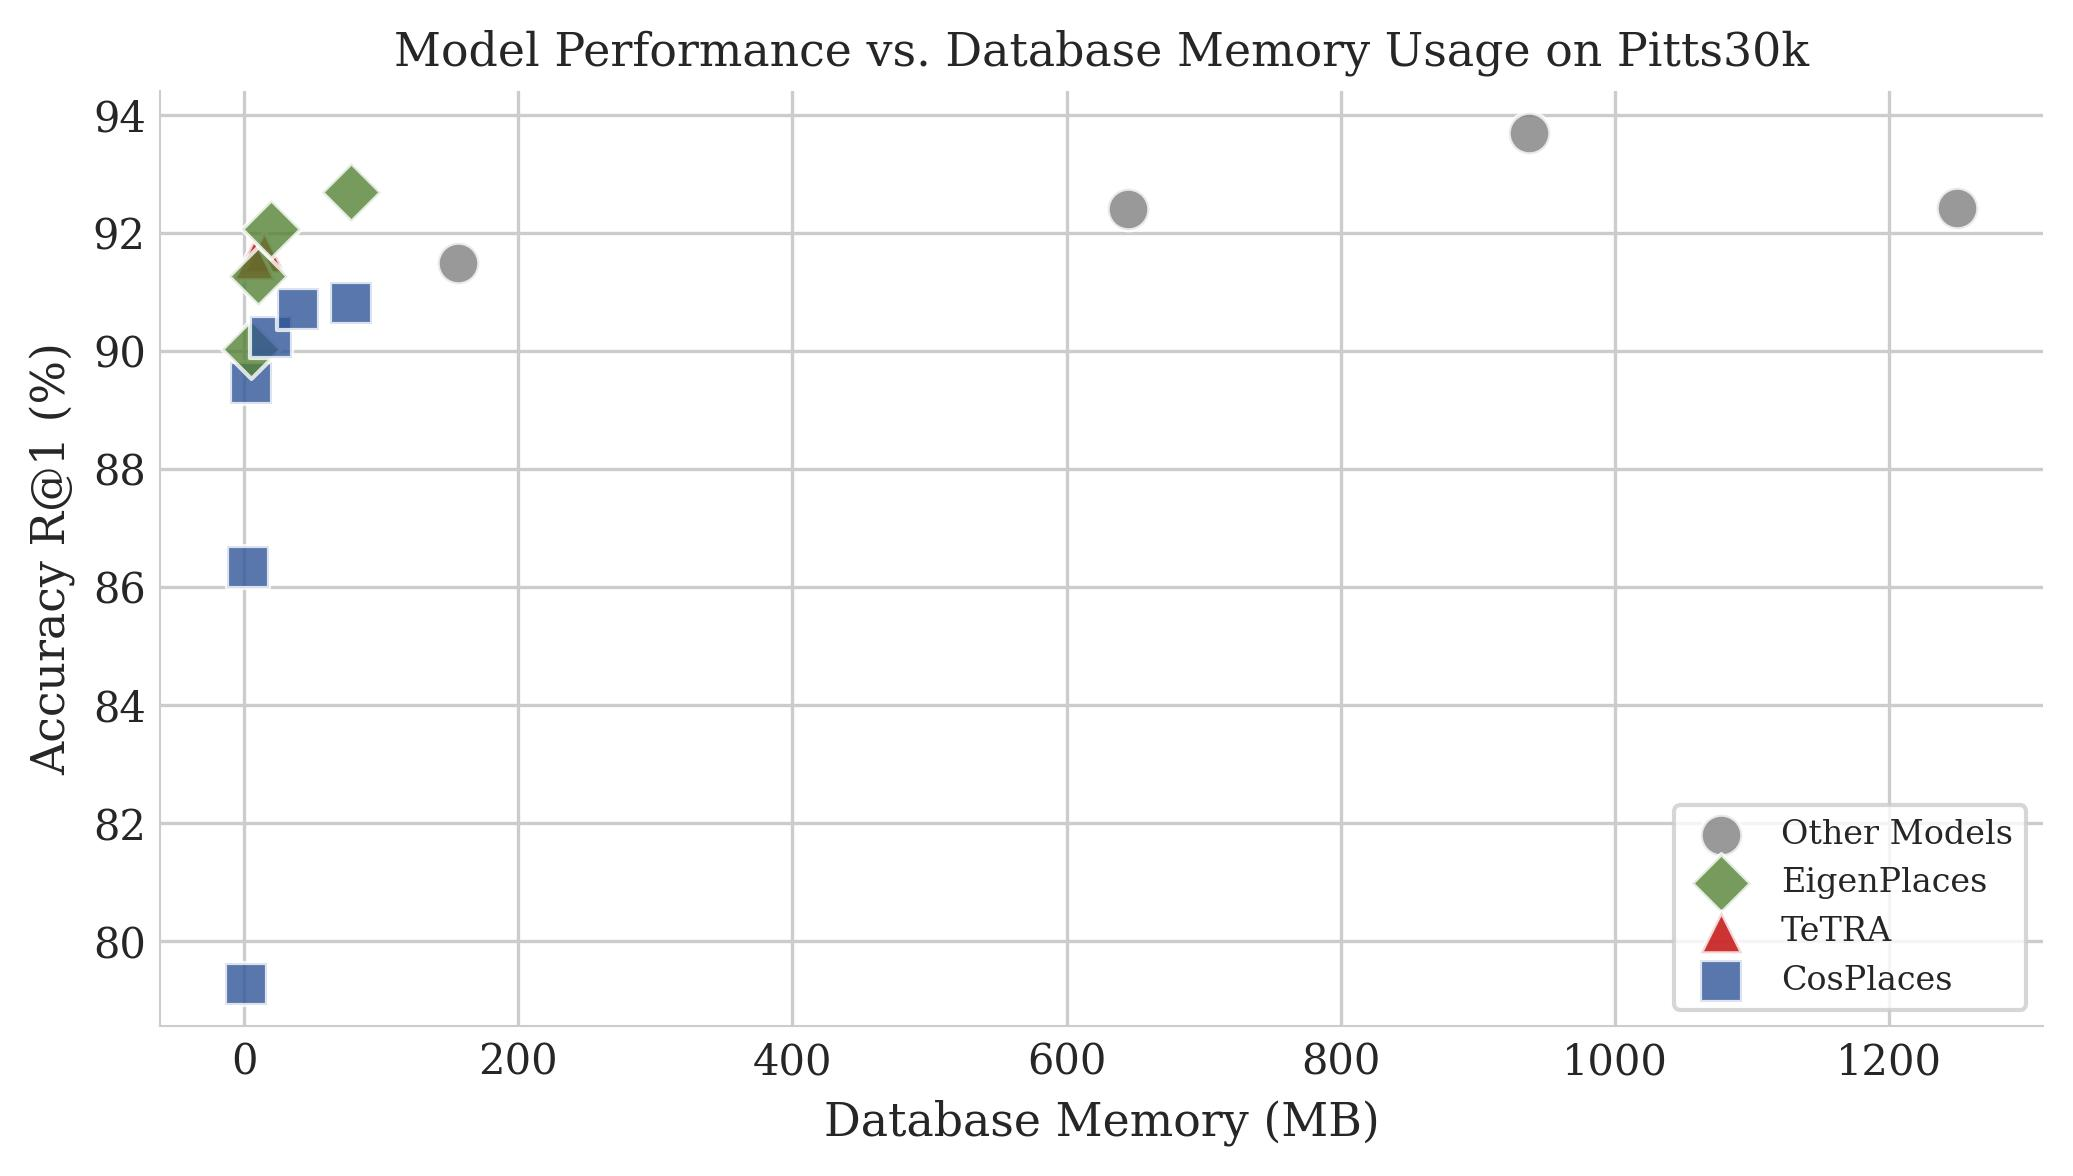
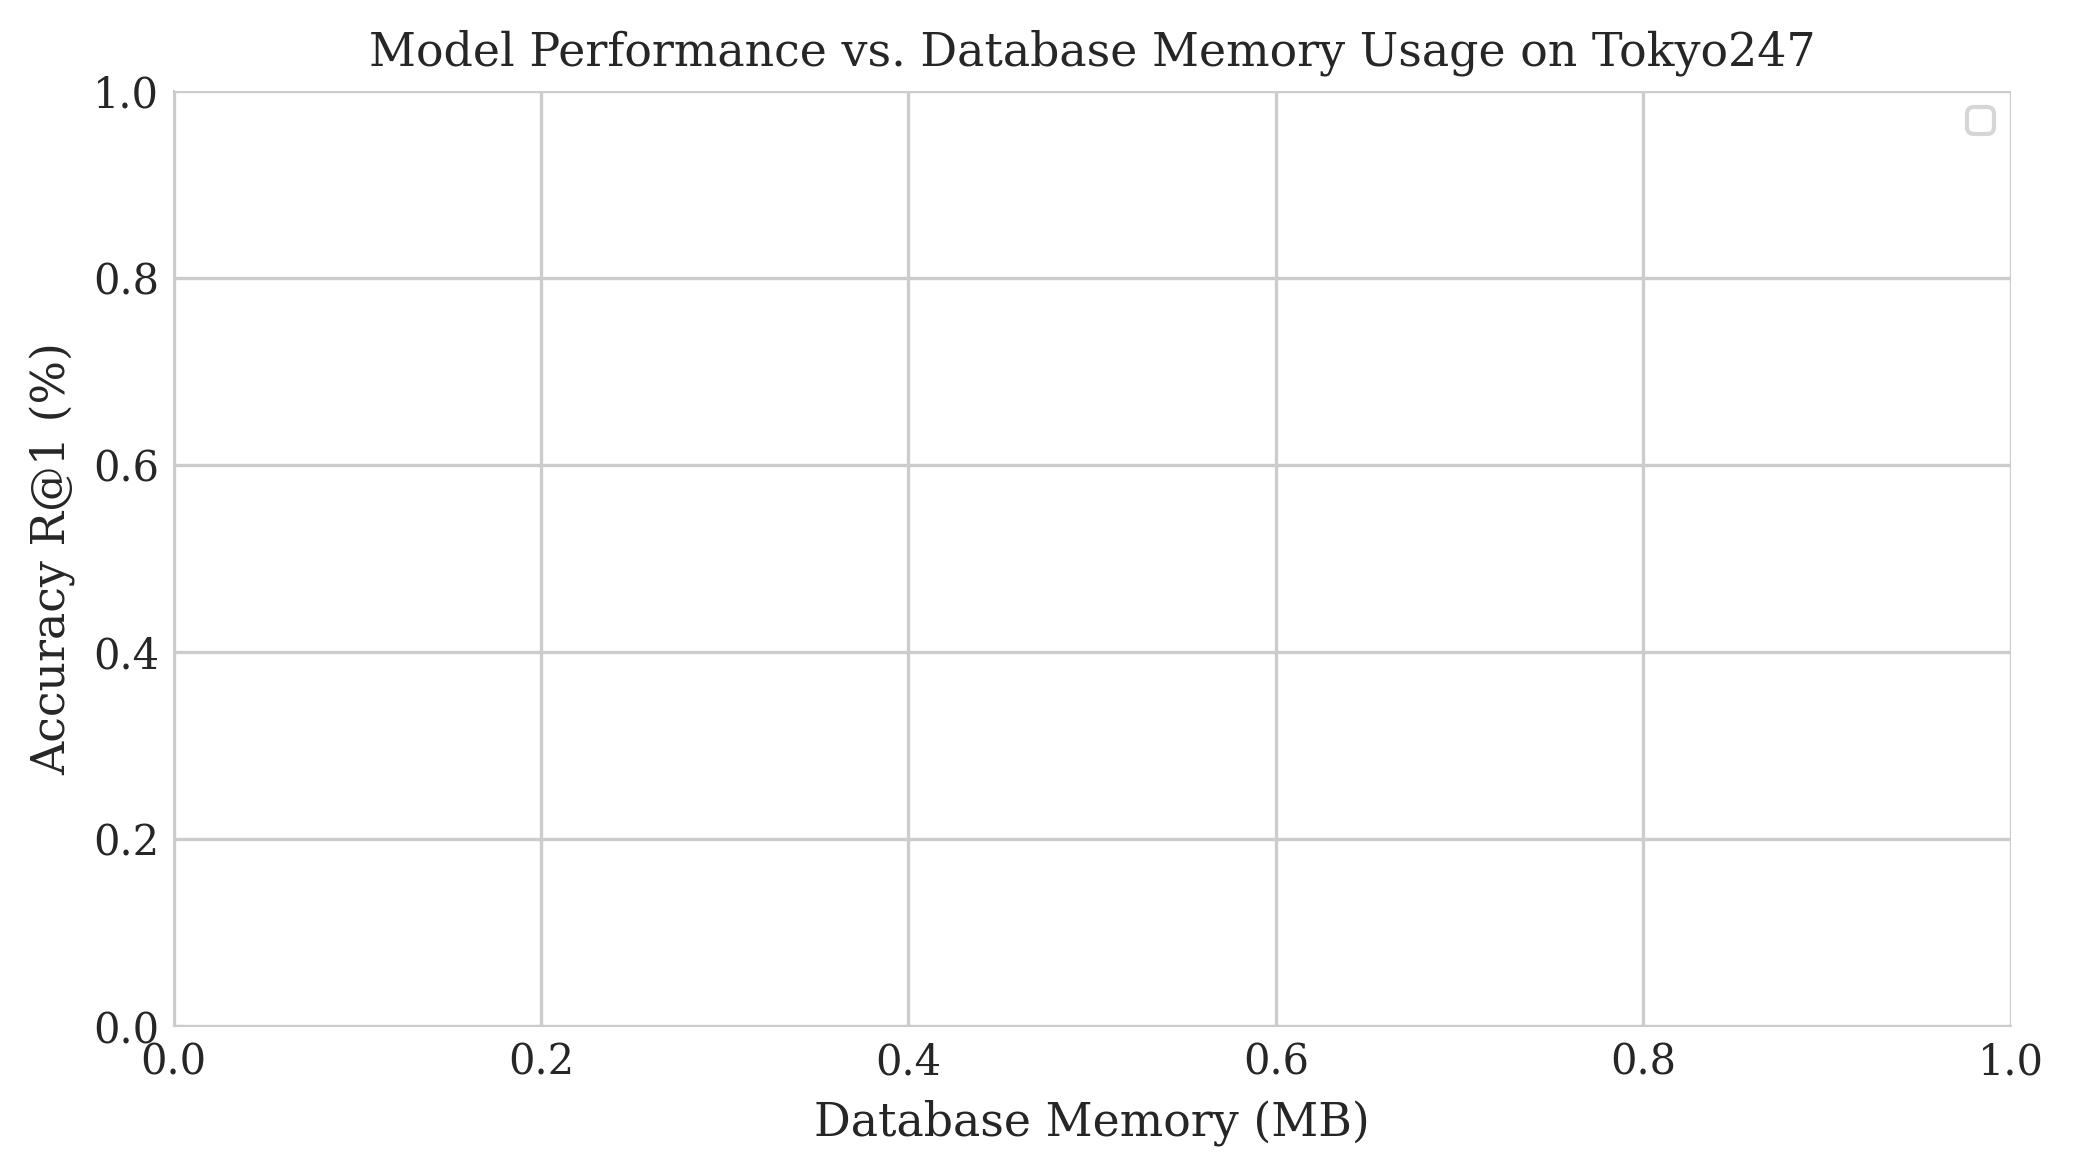
adding new results

diff --git a/data/fig1.py b/data/fig1.py
@@ -17,7 +17,7 @@ plt.rcParams.update(
     }
 )
 
-DATASET = "Pitts30k"
+DATASET = "Tokyo247"
 df = pd.read_csv("results.csv")
 df = df[df["Dataset"] == DATASET].copy()
 
